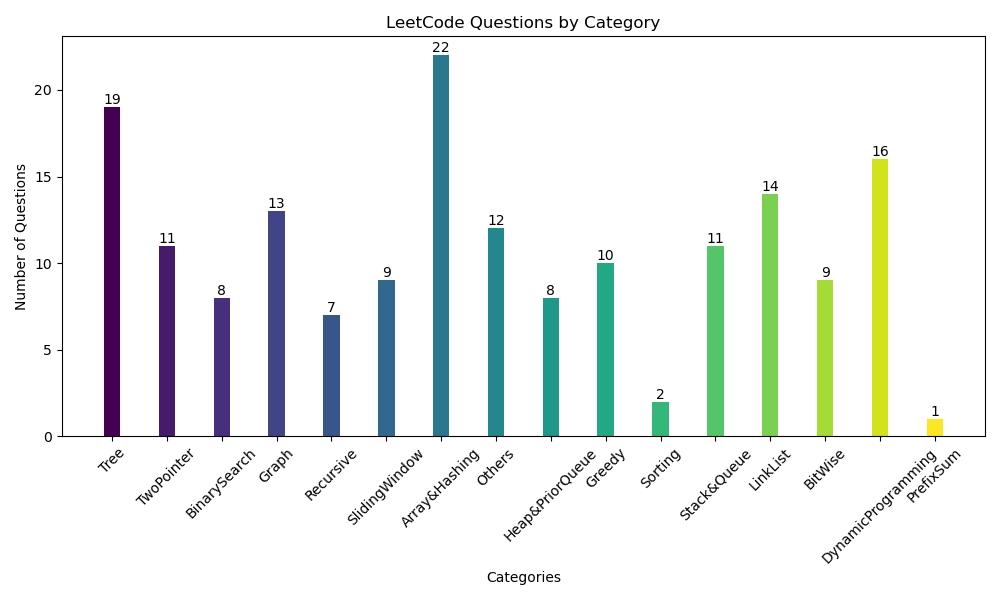
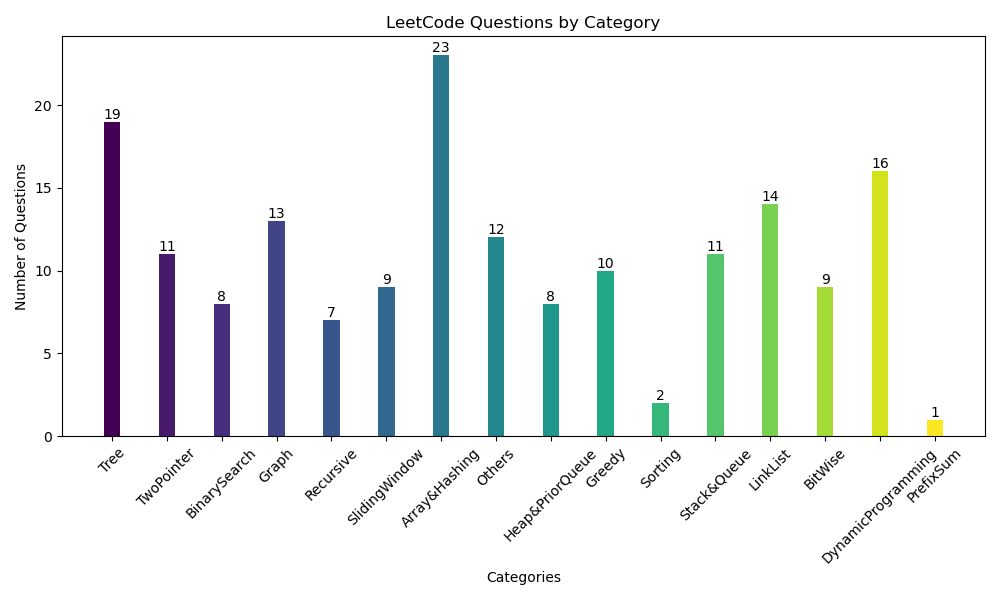
daily leecode pratices(easy)

diff --git a/Array&Hashing/1920. Build Array from Permutation.cpp b/Array&Hashing/1920. Build Array from Permutation.cpp
@@ -1,0 +1,25 @@
+/*
+    O(1) space, 因為 0 <= nums[i] < nums.length, 我們用 a + b * n概念, a=
+   nums[i]. b = nums[nums[i]]; 當要找原本數字就 % n, 要用新的數字就/n
+*/
+class Solution {
+  public:
+	vector<int> buildArray(vector<int> &nums) {
+
+		// a + b * n
+		int n = nums.size();
+
+		for (int i = 0; i < nums.size(); ++i) {
+
+			// decode a
+			int new_num = nums[nums[i]] % n;
+
+			// encode
+			nums[i] = nums[i] + new_num * n;
+		}
+		// decode b
+		for (int i = 0; i < nums.size(); ++i)
+			nums[i] /= n;
+		return nums;
+	}
+};

diff --git a/README.md b/README.md
@@ -1,7 +1,7 @@
 # LeetCode Problems
 
 ❌  can't resolve without solution: 12
-📝  can't resolve without hint: 137
+📝  can't resolve without hint: 138
 ✅  resolve by self: 23
 ## Tree
 - ❌ 105. Construct Binary Tree from Preorder and Inorder Traversal
@@ -97,6 +97,7 @@
 - 📝 2799ountCompleteSubArr
 - 📝 EdString
 - 📝 169.majorityElement
+- 📝 1920. Build Array from Permutation
 - 📝 hashtable
 - 📝 DuplicateArray
 - 📝 anagramGroup
@@ -208,7 +209,7 @@
 - 📝 1664. Ways to Make a Fair Array
 
 ## Statistics
-Current total questions: 172
+Current total questions: 173
 
 <img src="chart.png" alt="questions bar chart" width="500">
 
